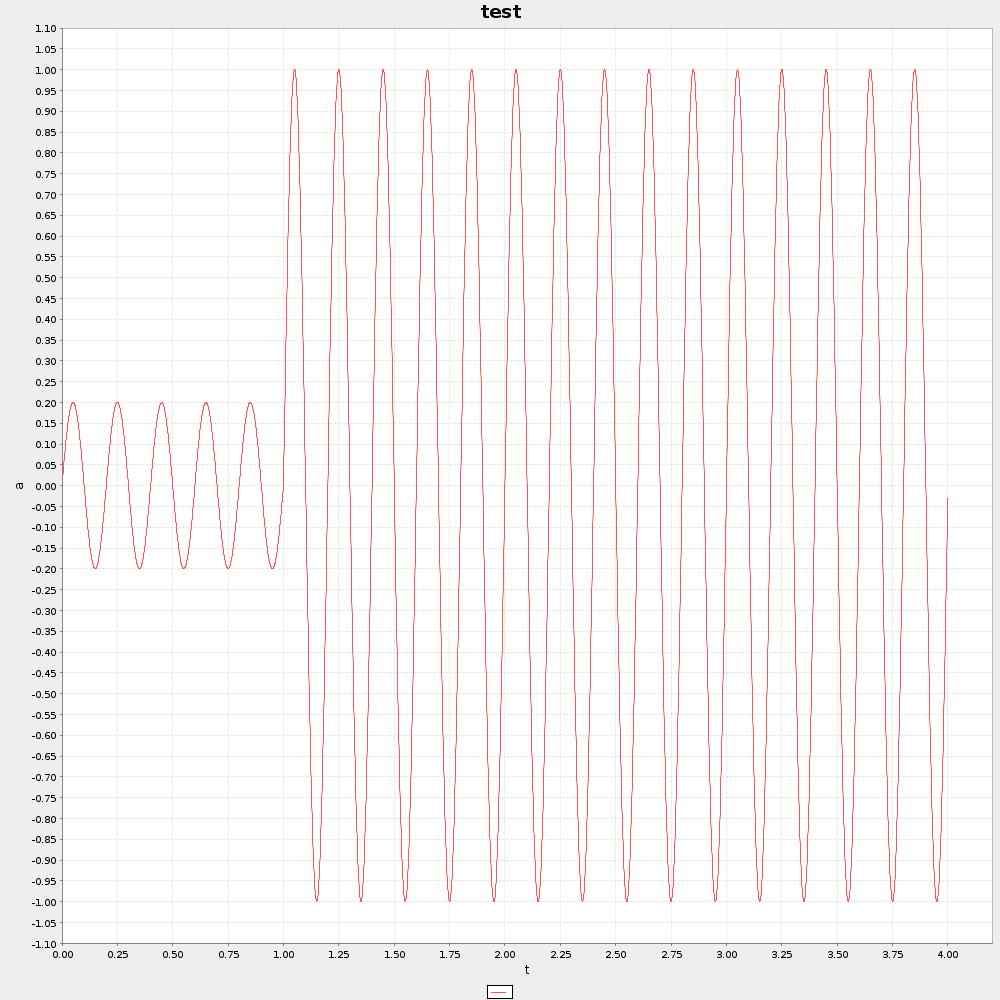
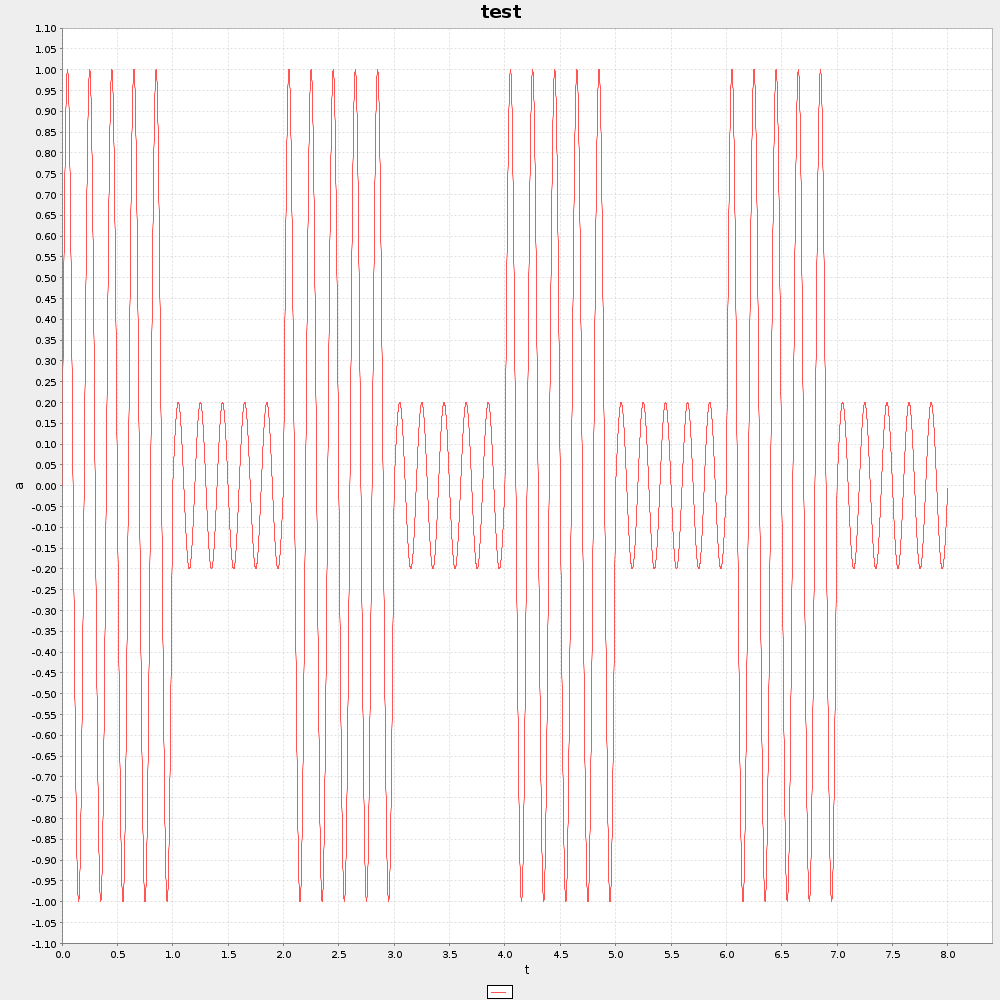
ask modulator working

diff --git a/channel-simulation/java-channel-simulation/src/main/java/sender/ASKModulator.java b/channel-simulation/java-channel-simulation/src/main/java/sender/ASKModulator.java
@@ -13,14 +13,20 @@ public class ASKModulator extends Modulator {
         int frame = (int) Math.floor(t / shiftPeriod);
         // if the number of bit transitions does not match the current frame, then move to the
         // next bit.
-        if (transitions != frame) { bitMask <<= 1; transitions++; }
+        if (transitions != frame) {
+            bitMask <<= 1;
+            transitions++;
+        }
         // if the bitMask is 8 then reset it to 0 and request the next byte to be sent.
-        if (bitMask == 0) { bitMask = 0b00000001; currentByte = super.getDatastream().nextByte(); }
+        if (bitMask == 0) {
+            bitMask = 0b00000001;
+            currentByte = super.getDatastream().nextByte();
+        }
 
-        boolean bit = (bitMask & currentByte) == 1;
+        boolean bit = (bitMask & currentByte) != 0;
         double f = amplitude * Math.sin(2 * Math.PI * carrierF * t);
 
-        if (bit) f *= 1 - depth;
+        if (!bit) f *= 1 - depth;
 
         return f;
     }

diff --git a/channel-simulation/java-channel-simulation/src/main/java/main/Main.java b/channel-simulation/java-channel-simulation/src/main/java/main/Main.java
@@ -6,7 +6,7 @@ import sender.GIFDecoder;
 
 public class Main {
     public static void main(String[] args) {
-        int samplePeriod = 4;
+        int samplePeriod = 8;
         int sampleFrequency = 1000;
 
         XYDataItem[] data = new XYDataItem[sampleFrequency * samplePeriod];
